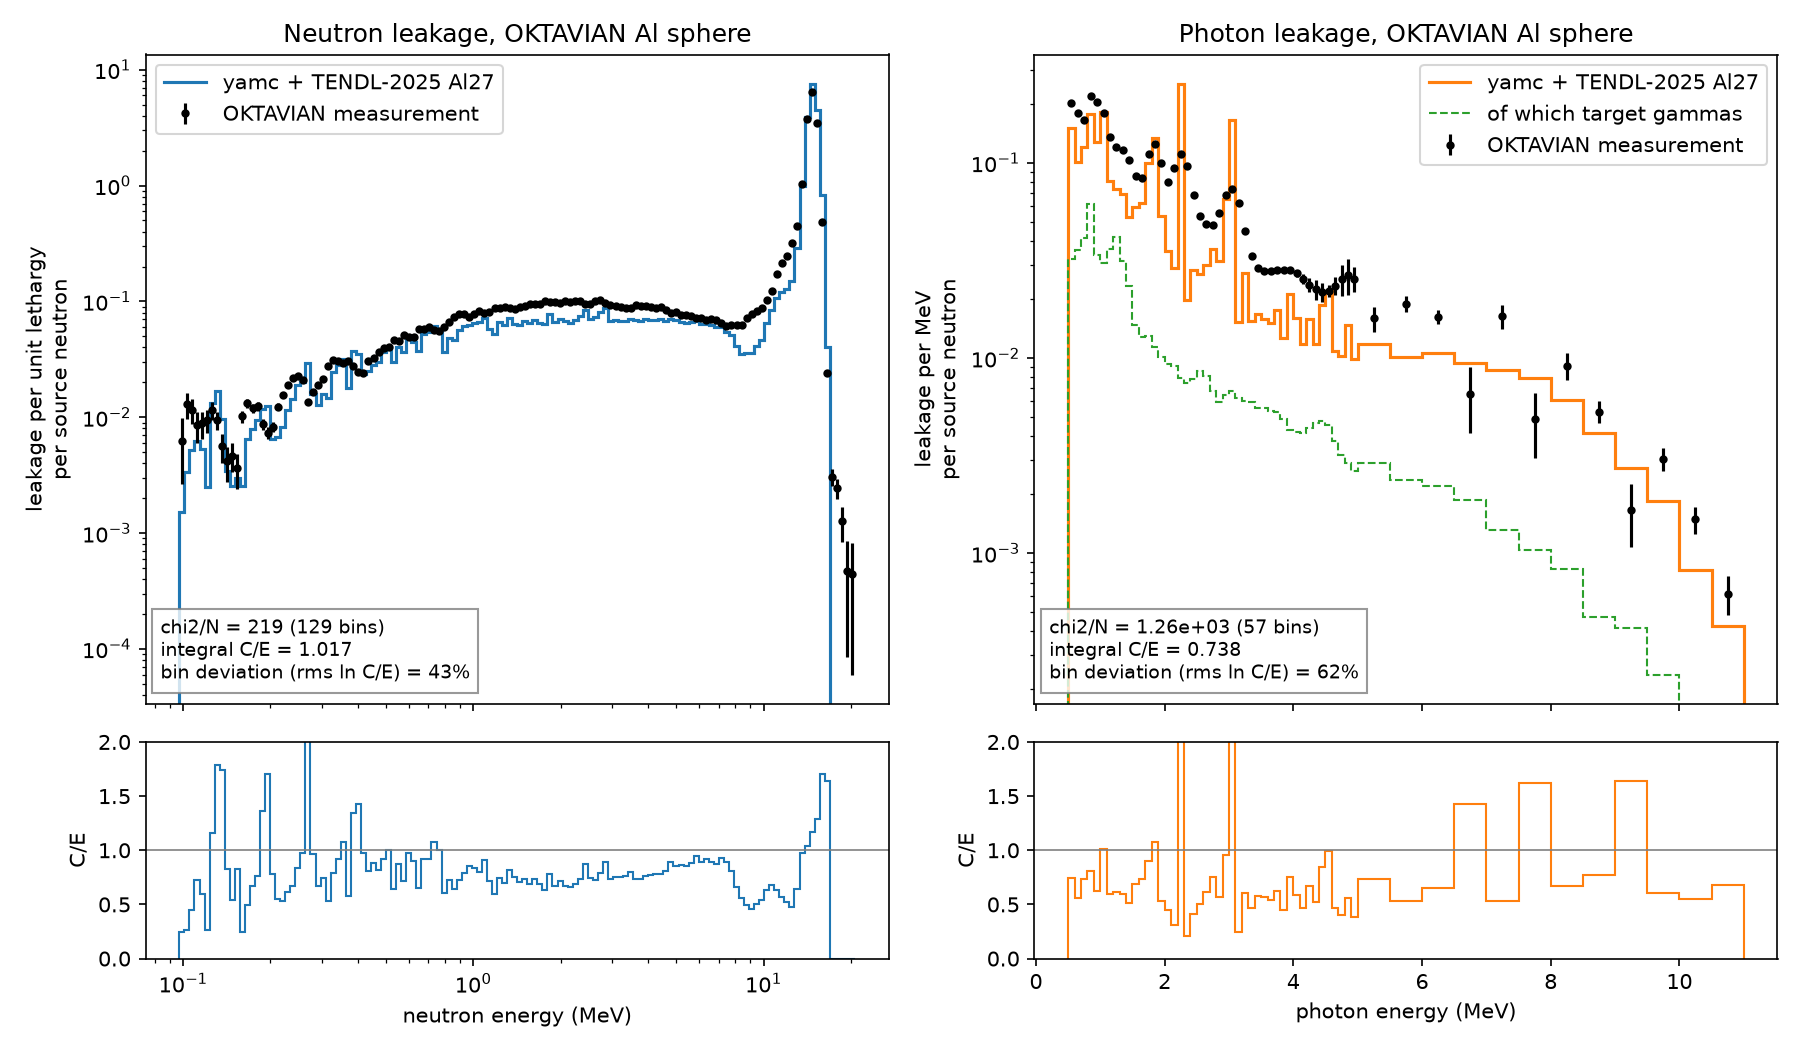
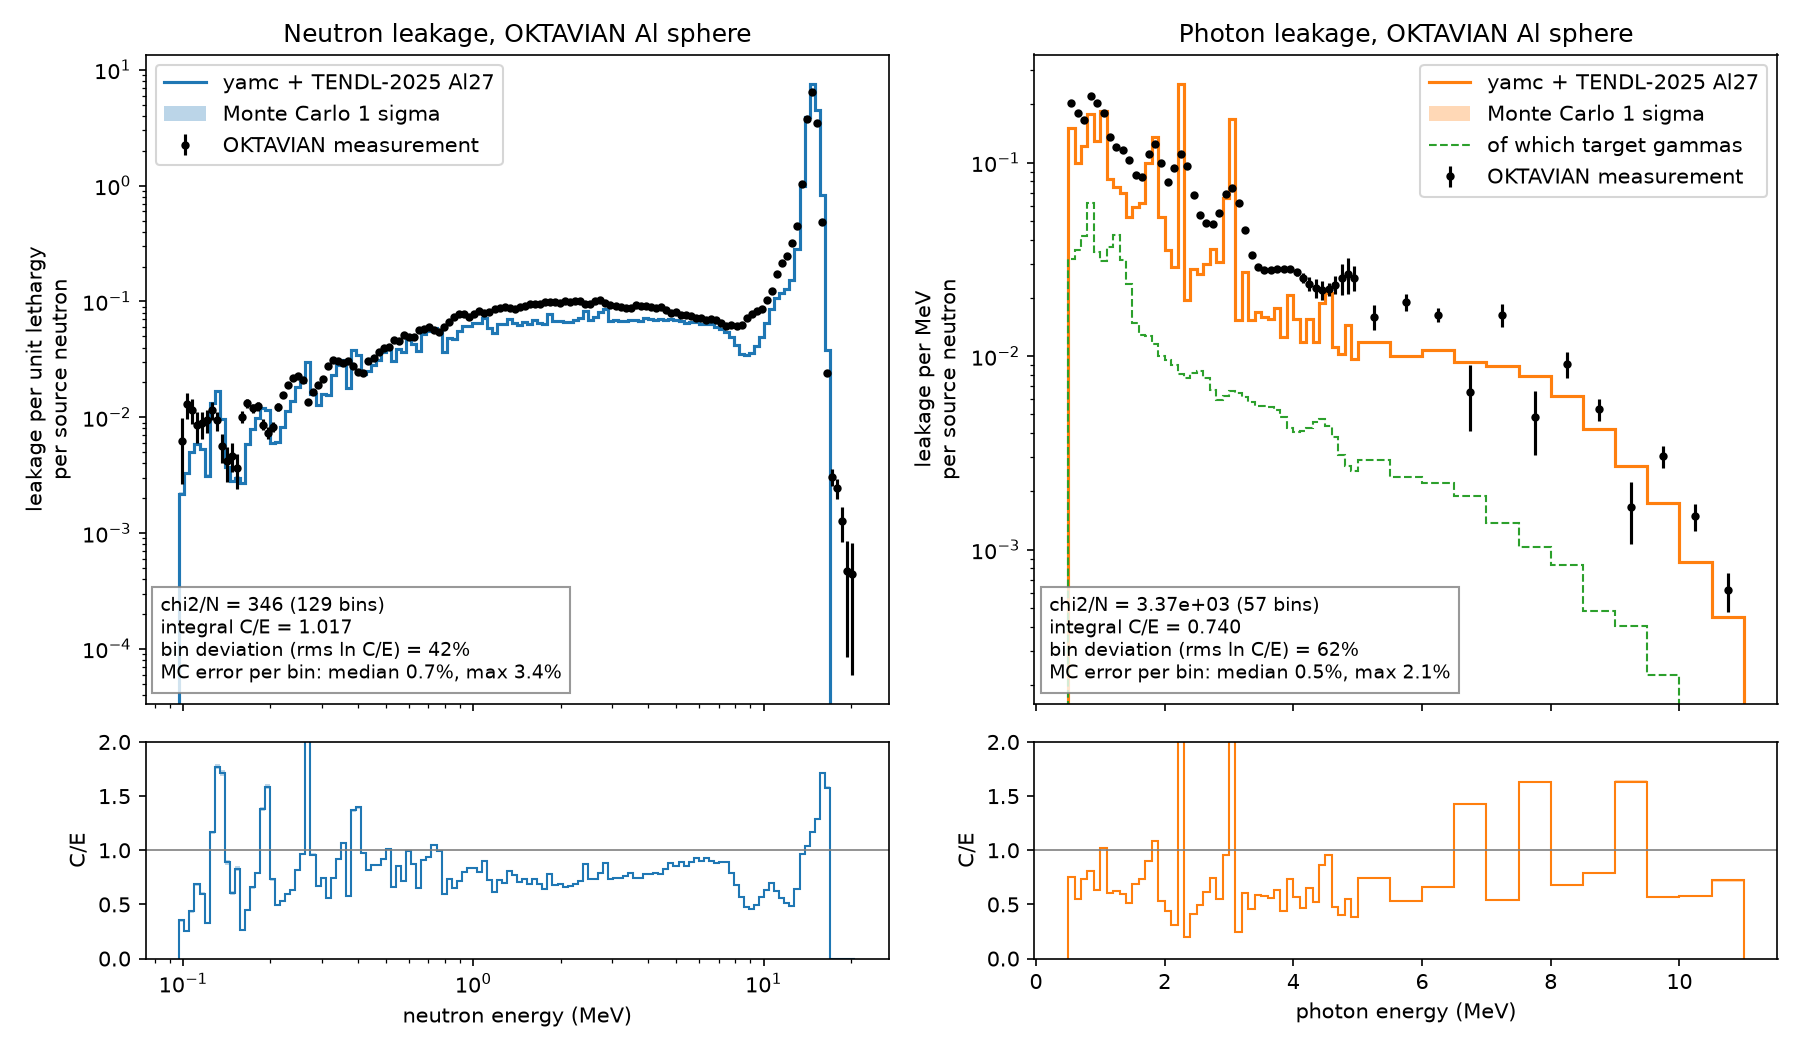
Show the Monte Carlo statistical error on the plot
The calculated spectra now carry a +/- 1 sigma band on both the spectrum and
the C/E panels, and each panel states the median and largest per-bin Monte
Carlo relative error. The script warns when a bin exceeds 5% and says to raise
PARTICLES. The default goes from 1e6 to 1e7 histories (about 5 s), which
brings the largest per-bin error from 12.8% to 3.4% for neutrons and from
6.9% to 2.1% for photons.

diff --git a/run_simulation.py b/run_simulation.py
@@ -91,7 +91,7 @@ MEASURED_PINS = {
 # ---------------------------------------------------------------------------
 
 R_BIG = 1.0e5
-PARTICLES = 1_000_000
+PARTICLES = 10_000_000
 
 # The measurements (FENDL-2 benchmark sublibrary, NEA mirror), pinned by sha256.
 OKTAVIAN = ("https://www.oecd-nea.org/dbforms/data/eva/evatapes/fendl_20/"
@@ -287,28 +287,45 @@ g_fit = goodness_of_fit(g_calc, g_calc_err, g_meas, g_err, g_width)
 # Plot: spectra on top, calculated / experiment below.
 fig, axes = plt.subplots(2, 2, figsize=(12, 7), sharex="col",
                          gridspec_kw={"height_ratios": [3, 1]})
-for col, (name, edges, calc, meas, err, units, log_x, fit) in enumerate([
-    ("Neutron", n_edges, n_calc, n_meas, n_err, "per unit lethargy", True, n_fit),
-    ("Photon", g_edges, g_calc, g_meas, g_err, "per MeV", False, g_fit),
+def mc_error(calc, calc_err):
+    """Median and largest Monte Carlo relative error (1 sigma) over scored bins."""
+    rel = sorted(e / c for c, e in zip(calc, calc_err) if c > 0)
+    return rel[len(rel) // 2], rel[-1]
+
+
+for col, (name, edges, calc, calc_err, meas, err, units, log_x, fit) in enumerate([
+    ("Neutron", n_edges, n_calc, n_calc_err, n_meas, n_err, "per unit lethargy", True, n_fit),
+    ("Photon", g_edges, g_calc, g_calc_err, g_meas, g_err, "per MeV", False, g_fit),
 ]):
     mev = [e / 1e6 for e in edges]
     mid = [(a + b) / 2 for a, b in zip(mev, mev[1:])]
     top, bottom = axes[0][col], axes[1][col]
     top.errorbar(mid, meas, yerr=err, fmt="o", ms=3, color="black", label="OKTAVIAN measurement")
     top.stairs(calc, mev, color=f"C{col}", lw=1.5, label=f"yamc + TENDL-2025 {', '.join(COMPOSITION)}")
+    # The Monte Carlo statistical error, +/- 1 sigma, as a shaded band. If it is
+    # visibly wide anywhere, run more histories (PARTICLES at the top).
+    top.stairs([c + e for c, e in zip(calc, calc_err)], mev,
+               baseline=[max(c - e, 0) for c, e in zip(calc, calc_err)],
+               fill=True, color=f"C{col}", alpha=0.3, lw=0, label="Monte Carlo 1 sigma")
     top.set(yscale="log", title=f"{name} leakage, OKTAVIAN {LABEL}",
             ylabel=f"leakage {units}\nper source neutron")
     if name == "Photon":
         top.stairs(g_target, mev, color="C2", ls="--", label="of which target gammas")
     top.legend()
+    median_err, max_err = mc_error(calc, calc_err)
     top.text(0.02, 0.03,
              f"chi2/N = {fit['chi2/N']:.3g} ({fit['bins']} bins)\n"
              f"integral C/E = {fit['integral C/E']:.3f}\n"
-             f"bin deviation (rms ln C/E) = {fit['bin deviation']:.0f}%",
+             f"bin deviation (rms ln C/E) = {fit['bin deviation']:.0f}%\n"
+             f"MC error per bin: median {100 * median_err:.1f}%, max {100 * max_err:.1f}%",
              transform=top.transAxes, fontsize=9, va="bottom",
              bbox={"facecolor": "white", "alpha": 0.8, "edgecolor": "grey"})
     bottom.stairs([c / m if m > 0 else math.nan for c, m in zip(calc, meas)], mev,
                   color=f"C{col}")
+    bottom.stairs([(c + e) / m if m > 0 else math.nan for c, e, m in zip(calc, calc_err, meas)],
+                  mev, baseline=[(c - e) / m if m > 0 else math.nan
+                                 for c, e, m in zip(calc, calc_err, meas)],
+                  fill=True, color=f"C{col}", alpha=0.3, lw=0)
     bottom.axhline(1, color="grey", lw=0.8)
     bottom.set(ylim=(0, 2), ylabel="C/E", xlabel=f"{name.lower()} energy (MeV)")
     if log_x:
@@ -318,9 +335,15 @@ out = HERE / "results" / f"oktavian_{'_'.join(ELEMENTS).lower()}.png"
 out.parent.mkdir(exist_ok=True)
 fig.savefig(out, dpi=150)
 
-for name, fit, energies in (("neutrons", n_fit, "0.1-20 MeV"),
-                             ("photons", g_fit, "0.5-11 MeV")):
+for name, fit, energies, calc, calc_err in (
+        ("neutrons", n_fit, "0.1-20 MeV", n_calc, n_calc_err),
+        ("photons", g_fit, "0.5-11 MeV", g_calc, g_calc_err)):
+    median_err, max_err = mc_error(calc, calc_err)
     print(f"{name} {energies}: integral C/E {fit['integral C/E']:.3f}, "
           f"chi2/N {fit['chi2/N']:.3g} over {fit['bins']} bins, "
-          f"bin deviation {fit['bin deviation']:.0f}%")
+          f"bin deviation {fit['bin deviation']:.0f}%, "
+          f"MC error per bin median {100 * median_err:.1f}% max {100 * max_err:.1f}%")
+    if max_err > 0.05:
+        print(f"  some {name} bins have a Monte Carlo error above 5%: "
+              "increase PARTICLES for a sharper comparison")
 print(f"wrote {out}")
